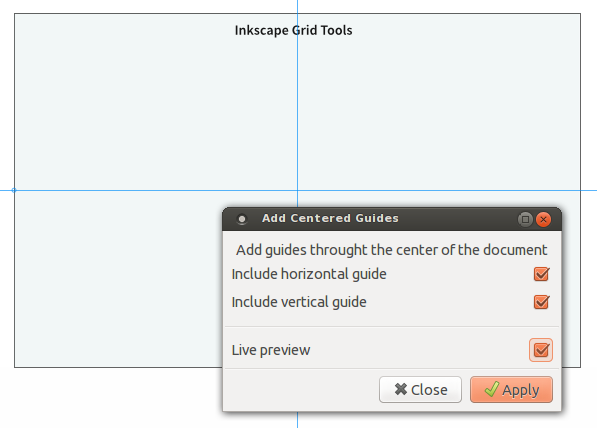
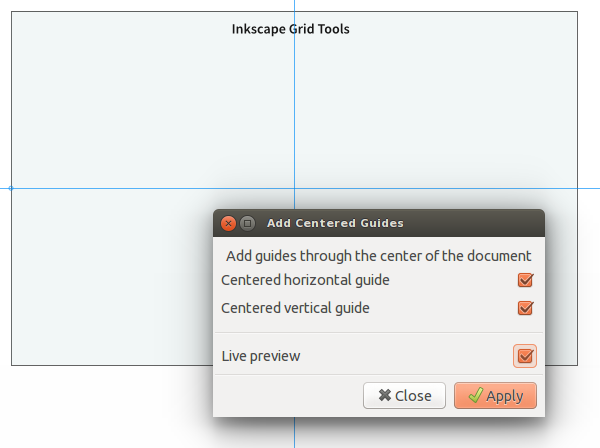
changed texts, new screenshot for centered guides

Changed region(s): [[0.0, 0.0, 1.0, 1.0]]

diff --git a/README.md b/README.md
@@ -7,20 +7,22 @@ These are a series of [Inkscape](http://inkscape.org/) extensions related to gui
 
 ### 1. Add centered guides to the document
 
-With this extension you can quickly add a horizontal and/or a vertical guide through the center of the document.
+With this extension you can quickly add a horizontal and/or vertical guide through the center of the document.
 
 ![Add centered guides](img/centered.png)
 
 ### 2. Add margin guides to document
 
-Inkscape already allows you to add guides exactly on the borders of the page, with **Edit > Guides around page**. With this extension however, you can add guides at a certain distance (margin) from the borders of the document. Add them all at once (for equal margins) or separately. Margins can be negative for guides outside the page borders. Zero margin guides are not drawn - use the mentioned Guides around Page for that.
+Inkscape already allows you to add guides _exactly_ on the borders of the page, with **Edit > Guides around page**. 
+
+With this extension you can add guides at a certain distance (_margin_) from the borders of the document. Add them all at once (for equal margins) or separately. Negative margins creates guides _outside_ the page borders. Zero margin guides are not drawn - use the mentioned Guides around Page for that.
 
 ![Add margin guides](img/margins.png)
 
 ### 3. Remove all or selected guides
 
 - **Remove All Guides** (no user interface) - actually made by heathenx, bundled here with his permission. See [this blog post](http://screencasters.heathenx.org/blog/2009/06/09/inkscape-extension-remove-guides/) and [this forum topic](https://www.ruby-forum.com/topic/188929). I've just moved the menu item to Extensions > Guides; this functionality may become part of inkscape in upcoming version 0.49
-- **Remove Selected Guides**: remove all horizontal and/or vertical and/or angled (diagonal) guides. Based on heathenx's extension. Useful for example when you need to change to different grid columns (vertical guides), but want to keep your existing horizontal guides.
+- **Remove Selected Guides**: Selectively remove all horizontal and/or vertical and/or angled (diagonal) guides. Based on heathenx's extension _Remove all guides_.
 
 ![Remove selected guides](img/remove.png)
 
@@ -28,7 +30,7 @@ Inkscape already allows you to add guides exactly on the borders of the page, wi
 
 1. Download the zip archive to your computer;
 2. Unzip (extract) the archive on your computer;
-3. Open it. In the folder "extensions", you will find the extension files - they come in pairs, an .inx and .py file for each extension. You can select them all, or only the ones you need. Copy the chosen files into your Inkscape extensions folder:
+3. Open it. In the folder "extensions", you will find the extension files - they come in pairs, an .inx and .py file for each extension. Copy these files (not the folder) into your Inkscape extensions folder:
 
 - on Windows: "C:\Program Files\Inkscape\share\extensions"
 - on Linux: " /home/yourusername/.config/inkscape/extensions" (.config is a hidden folder)
@@ -47,7 +49,7 @@ Need to create guides in a grid of columns (or rows) with gutters? See the [Inks
 ### Tips
 
 - To add guides on the borders of your page, go to *Edit > Guides Around the Page*
-- To divide your document into equal parts (with no gutters), you could use [Guides Creator](http://code.google.com/p/inkscape-guides-creator/) (part of Inkscape by default, located under Extensions > Render > Guides Creator), by Jonas Termeau. With option for proportional divisions (rule of thirds, golden rule). Limited to maximum 10 divisions, no gutters, no margins. 
+- To divide your document into equal parts (with no gutters), you could use [Guides Creator](http://code.google.com/p/inkscape-guides-creator/) (part of Inkscape by default, located under Extensions > Render > Guides Creator). With option for proportional divisions (rule of thirds, golden rule). Limited to maximum 10 divisions, no gutters, no margins. 
 - You can add a keyboard shortcut to an inkscape extension (manually, by editing an xml file with user keyboard shortcuts)
 
 ### Licence
